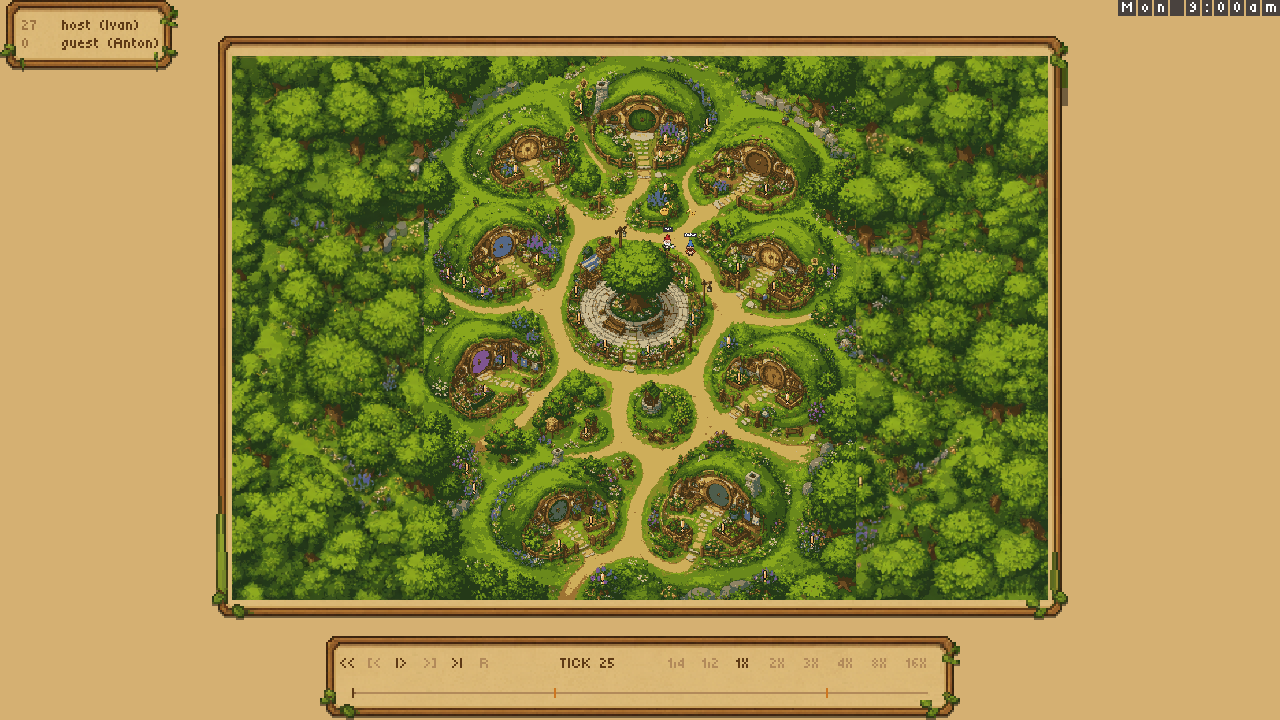
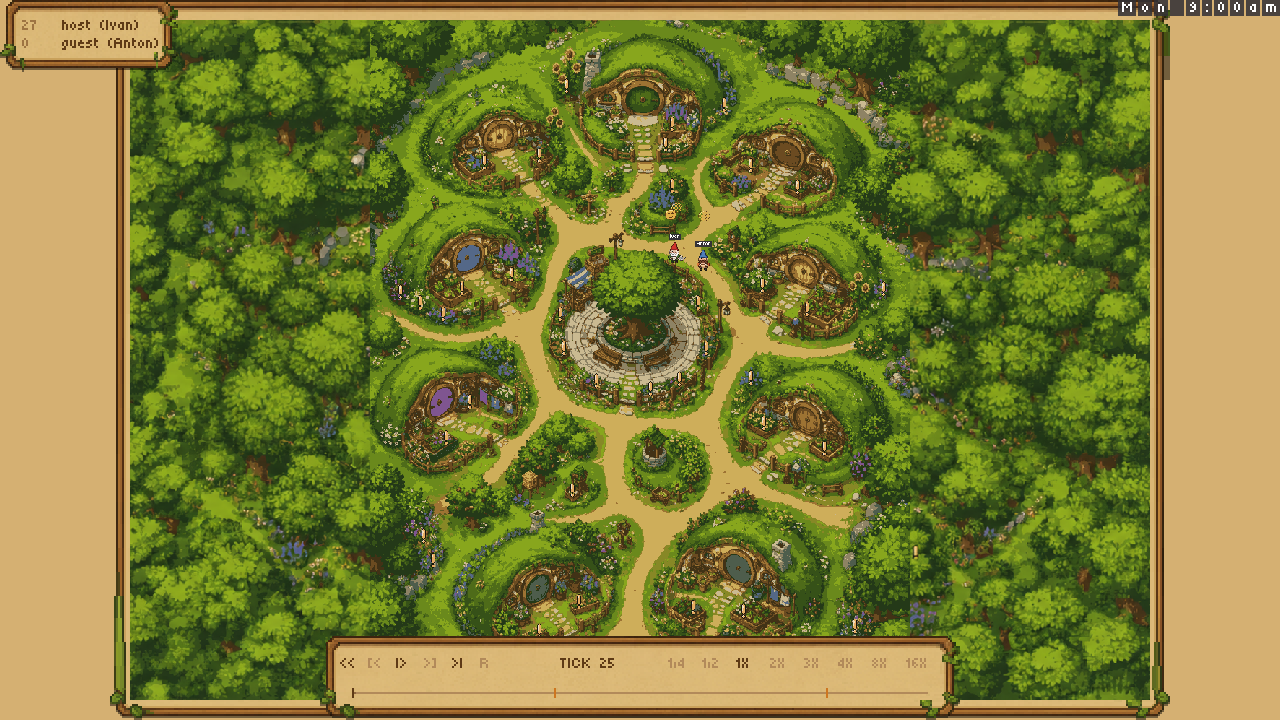
Use full window height for the village overview

diff --git a/docs/viewer-stability.md b/docs/viewer-stability.md
@@ -5,9 +5,11 @@ resources, replay format, and game rules.
 
 - Light parchment (`#d5b072`) fills the surround. The map uses the existing
   pixel-art wooden and leafy border. A fixed frame masks overflow during zoom.
-- The full-village overview fits the available height. Conversation shots
+- The full-village overview fills the window height with controls overlaid. Conversation shots
   fill the window with a wider camera crop, without stretching the map.
   Crops stay inside the village art at map edges and in ultrawide windows.
+  In narrow portrait windows, the overview fits the width to keep the whole
+  village visible. Playback controls never reduce its size.
 - The settled director shot shows the current speaker's card: one portrait,
   name, full recorded line, points, connection points, and relation to the listener.
   The card overlays a clear edge of the full-screen scene and moves aside if
@@ -82,7 +84,9 @@ settled, and night. The complete circular room clears the transport. No black
 bars or opaque exterior room rectangle appeared in those renders. Intended
 night shading inside the room is preserved.
 
-![Village overview fitted to available height](viewer-stability/rendered-wide.png)
+![Village overview filling the window height](viewer-stability/rendered-wide.png)
+
+![Portrait overview preserving the whole village](viewer-stability/rendered-wide-portrait.png)
 
 ![Full-screen conversation and smaller pixel emojis](viewer-stability/rendered-director-card.png)
 

diff --git a/README.md b/README.md
@@ -194,7 +194,7 @@ MIT
 
 The director preserves the original village and uses light parchment framing
 with the existing pixel-art wooden/leaf border by default. The full village
-fits the available height; conversation shots fill the window.
+fills the window height with controls overlaid; conversation shots fill the window.
 Use `?background=forest` to compare the optional forest surround (art review
 pending). A zoomed conversation shows its current speaker's card with portrait,
 dialogue, points and connections. The card uses reusable parts, and emojis sit
